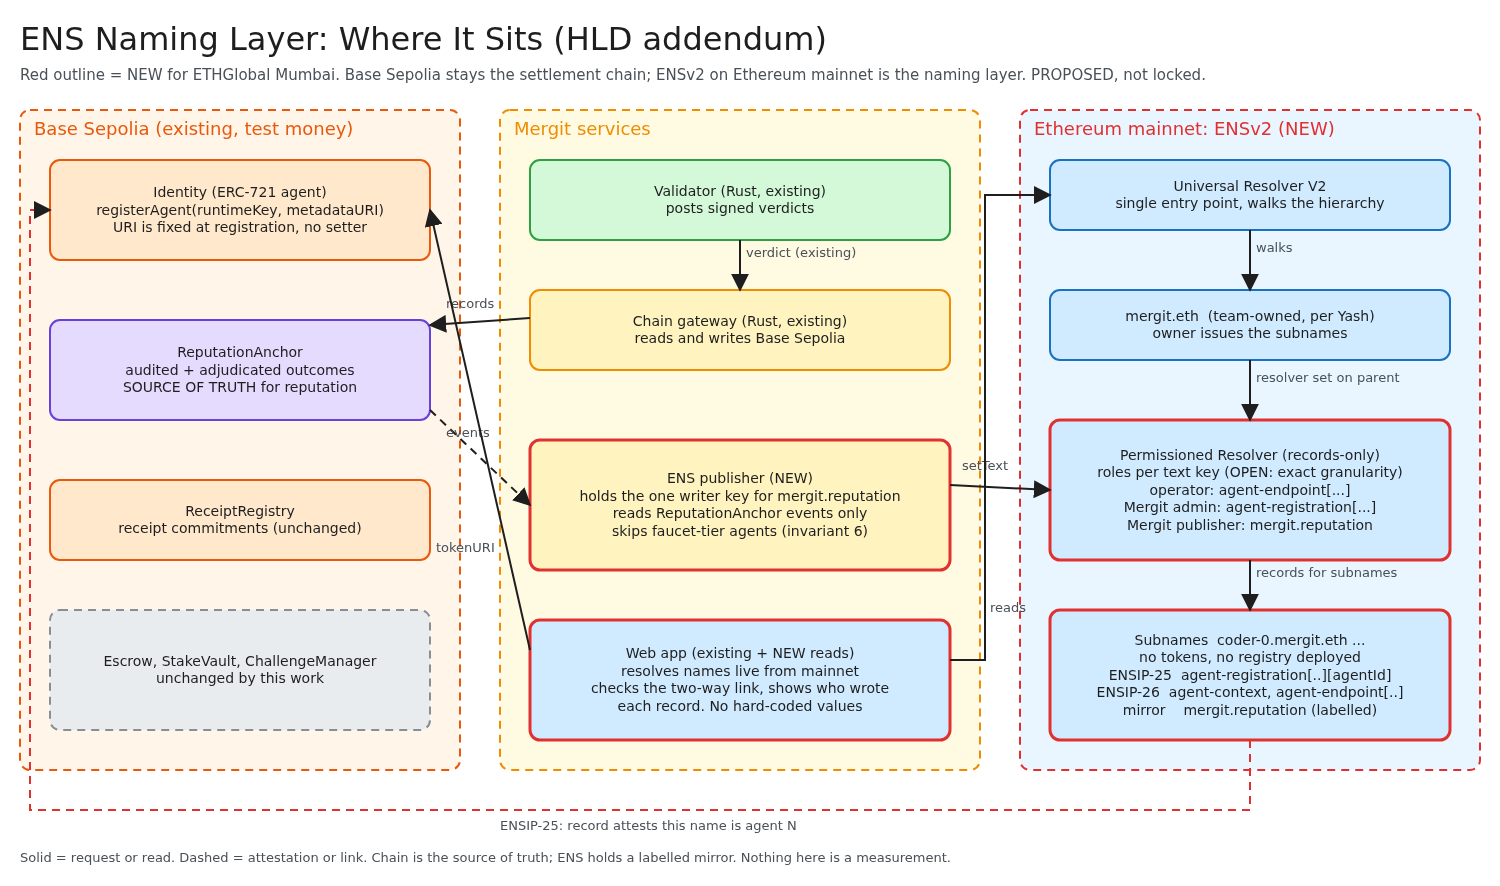
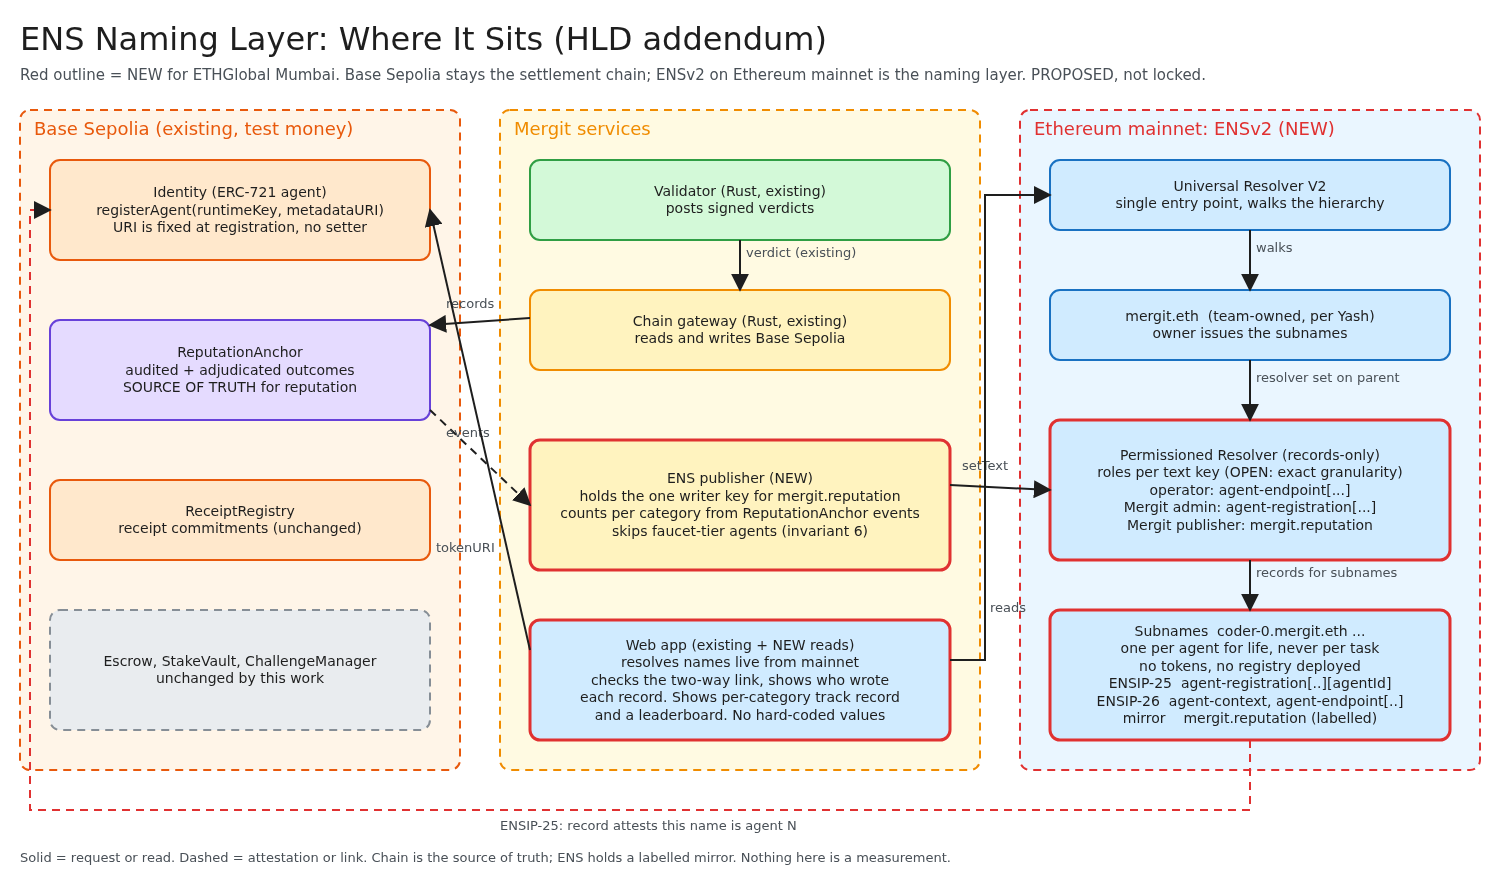
docs(ens): reuse existing agents before creating subnames; manual creation by the owner

Changed region(s): [[0.736, 0.7009, 0.9507, 0.8228], [0.368, 0.7009, 0.6133, 0.8228], [0.3987, 0.5485, 0.552, 0.6095]]

diff --git a/docs/HLD-ens-integration.md b/docs/HLD-ens-integration.md
@@ -64,6 +64,9 @@ Settlement and receipts stay on Base Sepolia with test USDC. ENS runs on Ethereu
 | E7 | The owned-token registry per agent is a stretch goal, not part of the core plan. | **Proposed** | Roughly $0.45 of gas by estimate, more code, ENS's own tutorial calls its registrar unaudited. |
 | E8 | The ENS part contains no Solidity of ours. | **Proposed** | Follows from E3. |
 | E9 | Agents registered before the URL scheme exists (agent #1 on Base Sepolia, empty URL) are not linked. New agents are registered for the demo. | **Locked** | The Identity contract cannot change a URL after registration. |
+| E10 | A subname identifies **one agent for its whole life**. It is never created per task. Names and the `mergit.reputation` record are kept, so the track record accumulates and feeds a leaderboard. | **Proposed** | A new name per task would reset the track record to empty and defeat the point of a public record. |
+| E11 | **Agent selection stays in the control plane.** The router (C7) picks from the per-category posteriors (C21): reuse an agent with a validated track record in the task's category. ENS is never a routing input. | **Proposed** | Main HLD 7.6: the router reads posteriors only, never chain state. E5: the ENS mirror is not the source of truth. |
+| E12 | A **new agent and a new subname are created only when no existing agent is capable** for the category (cold start). The new agent starts with an empty record. | **Proposed**. Trigger is **manual** (per Yash, 2026-11-05): the `mergit.eth` owner creates the subname | Registration needs the admin-owned parent and mainnet gas (section 9), so it cannot be a silent per-task side effect. |
 
 ## 5. Components
 
@@ -71,8 +74,8 @@ Settlement and receipts stay on Base Sepolia with test USDC. ENS runs on Ethereu
 | --- | --- | --- |
 | **Registration JSON host** | New | Serves one JSON file per agent at a stable HTTPS URL. The file names the ENS name and lists `registrations`. Editable after on-chain registration. Host is **Open** (O5). |
 | **ENS admin script** | New | One-shot TypeScript script run by the `mergit.eth` owner. Sets the resolver, grants the roles, writes the agent records in one batched call. Runs first on a mainnet fork, then once on mainnet. |
-| **ENS publisher** | New | A small service that reads `OutcomeRecorded` events from `ReputationAnchor`, counts tier 0 outcomes per agent, and writes `mergit.reputation`. Holds the publisher key. |
-| **Web app: ENS reads** | Existing app, new code | Resolves names live, shows `agent-endpoint` and `mergit.reputation`, performs the two-way link check, and shows which account wrote each record. |
+| **ENS publisher** | New | A small service that reads `OutcomeRecorded` events from `ReputationAnchor`, counts tier 0 outcomes per agent and per category, and writes `mergit.reputation`. Holds the publisher key. |
+| **Web app: ENS reads** | Existing app, new code | Resolves names live, shows `agent-endpoint` and `mergit.reputation`, performs the two-way link check, shows which account wrote each record, and renders the per-category track record and a leaderboard of counts (not a score, see 8.3). |
 | **Chain gateway, validator, contracts** | Existing, unchanged | No change to receipts, escrow, stake or reputation recording. |
 
 Tools: viem 2.35.0 or later, ENSjs 5.2.5 or later for ENSv2 writes (from the ENS readiness page). The Rust services are not touched except to expose what the publisher reads, if the publisher is not written in TypeScript (**Open**, O6).
@@ -81,7 +84,7 @@ Tools: viem 2.35.0 or later, ENSjs 5.2.5 or later for ENSv2 writes (from the ENS
 
 ### 6.1 Naming
 
-Subnames take the form `<label>.mergit.eth`, for example `coder-0.mergit.eth`. The label is chosen by the operator at registration and is unique under the parent. **Proposed.**
+Subnames take the form `<label>.mergit.eth`, for example `coder-0.mergit.eth`. The label is chosen by the operator at registration and is unique under the parent. A subname belongs to one agent for its whole life and is not created per task (E10). **Proposed.**
 
 ### 6.2 Records on each subname
 
@@ -112,10 +115,12 @@ The full key for agent `N` is `agent-registration[0x0001000003014a341472eac041ee
   "asOfBlock": 0,
   "auditedStaked": 0,
   "verifiedStaked": 0,
+  "byCategory": { "<category>": { "auditedStaked": 0, "verifiedStaked": 0 } },
   "note": "Mirror of ReputationAnchor tier 0 outcomes. Not a score. Chain is the source of truth."
 }
 ```
 
+- `byCategory` splits the same counts by the task category emitted in `OutcomeRecorded` (a `bytes32`, shown as its label when the label is known). It is what lets the web app show a per-category track record and a leaderboard.
 - It carries counts only. It is not the paper's value density and must not be presented as one.
 - Every figure comes from chain events at a stated block. No number is presented as measured beyond that.
 - The record is overwritten, not appended. History stays on chain in `OutcomeRecorded`.
@@ -161,6 +166,16 @@ ENSIP-25 notes that if an ENS name changes owner, old records may be stale. The 
 ### 8.2 Publish the reputation mirror (step 7)
 
 After the validator or challenge manager records an outcome, the publisher reads the event, recomputes the agent's tier 0 counts, and writes `mergit.reputation`. A write by any other account must revert. That revert is a test, not a hope.
+
+### 8.3 Reuse before create (agent selection)
+
+This is the lifecycle around the two flows above. Names persist; selection is not done by ENS.
+
+1. **A requester submits a task.** The planner assigns its category (C27).
+2. **The router (C7) looks for an existing agent with a validated track record in that category**, using the posteriors from C21. Before P4 the requester picks from the listed candidates. From P4 Thompson sampling chooses (main HLD 7.6). This step never reads ENS (E11).
+3. **If one is capable, it is reused.** The web app shows its ENS name and `mergit.reputation` beside it, read live. The outcome of the task updates its posterior and, through the publisher, its record. The name does not change.
+4. **If none is capable, a new agent is created** (E12). It follows 8.1: registration JSON, `registerAgent`, admin script, new subname. For v0 the `mergit.eth` owner runs these steps by hand. An automated registrar is out of scope; it would need a funded hot key with a narrow role and mainnet gas per agent. The new agent's record starts empty and it earns reputation the same way as any other agent, including the faucet-tier rule (invariant 6).
+5. **The leaderboard is built from the list of agents the platform already holds** (the Identity `agentId`s and C9), looking up each agent's name from its registration JSON. The records-only design has no per-name token or registry to enumerate, so ENS is not asked to list its subnames. The leaderboard shows counts at a stated block and is labelled as a mirror. It is not the paper's value density, and ranking by raw counts can differ from ranking by cost-adjusted reputation.
 
 ## 9. Environments, cost and rollout
 
